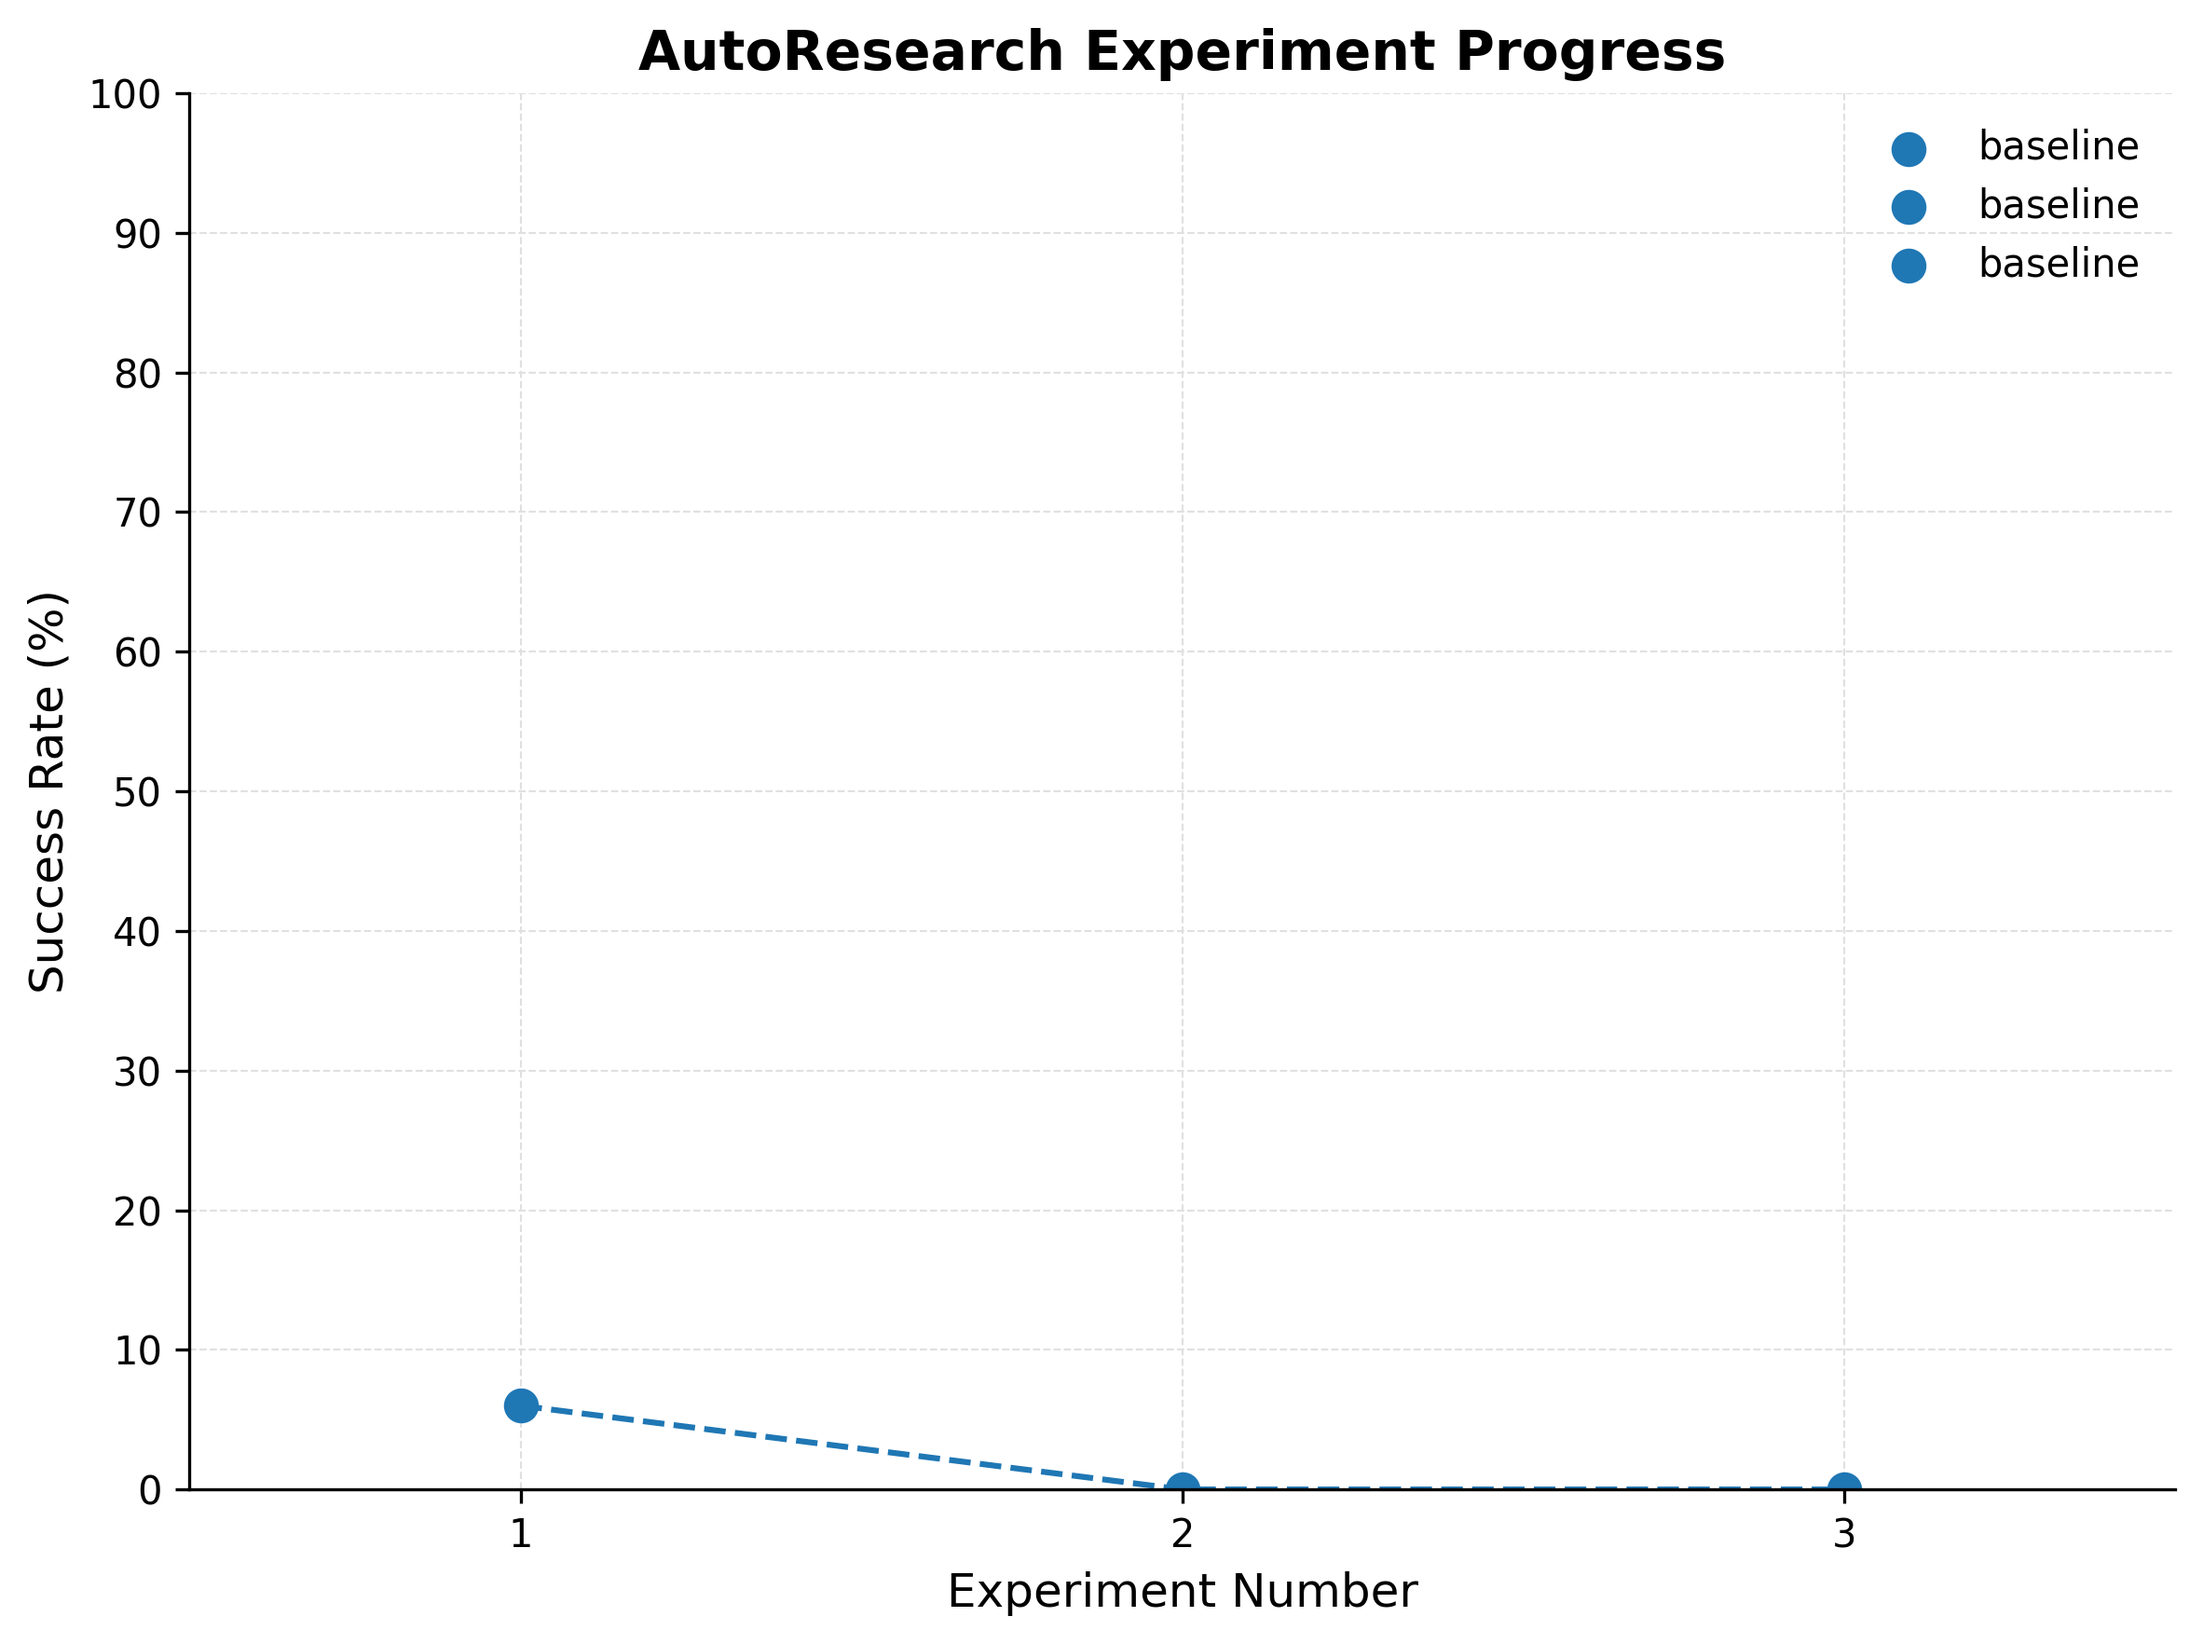
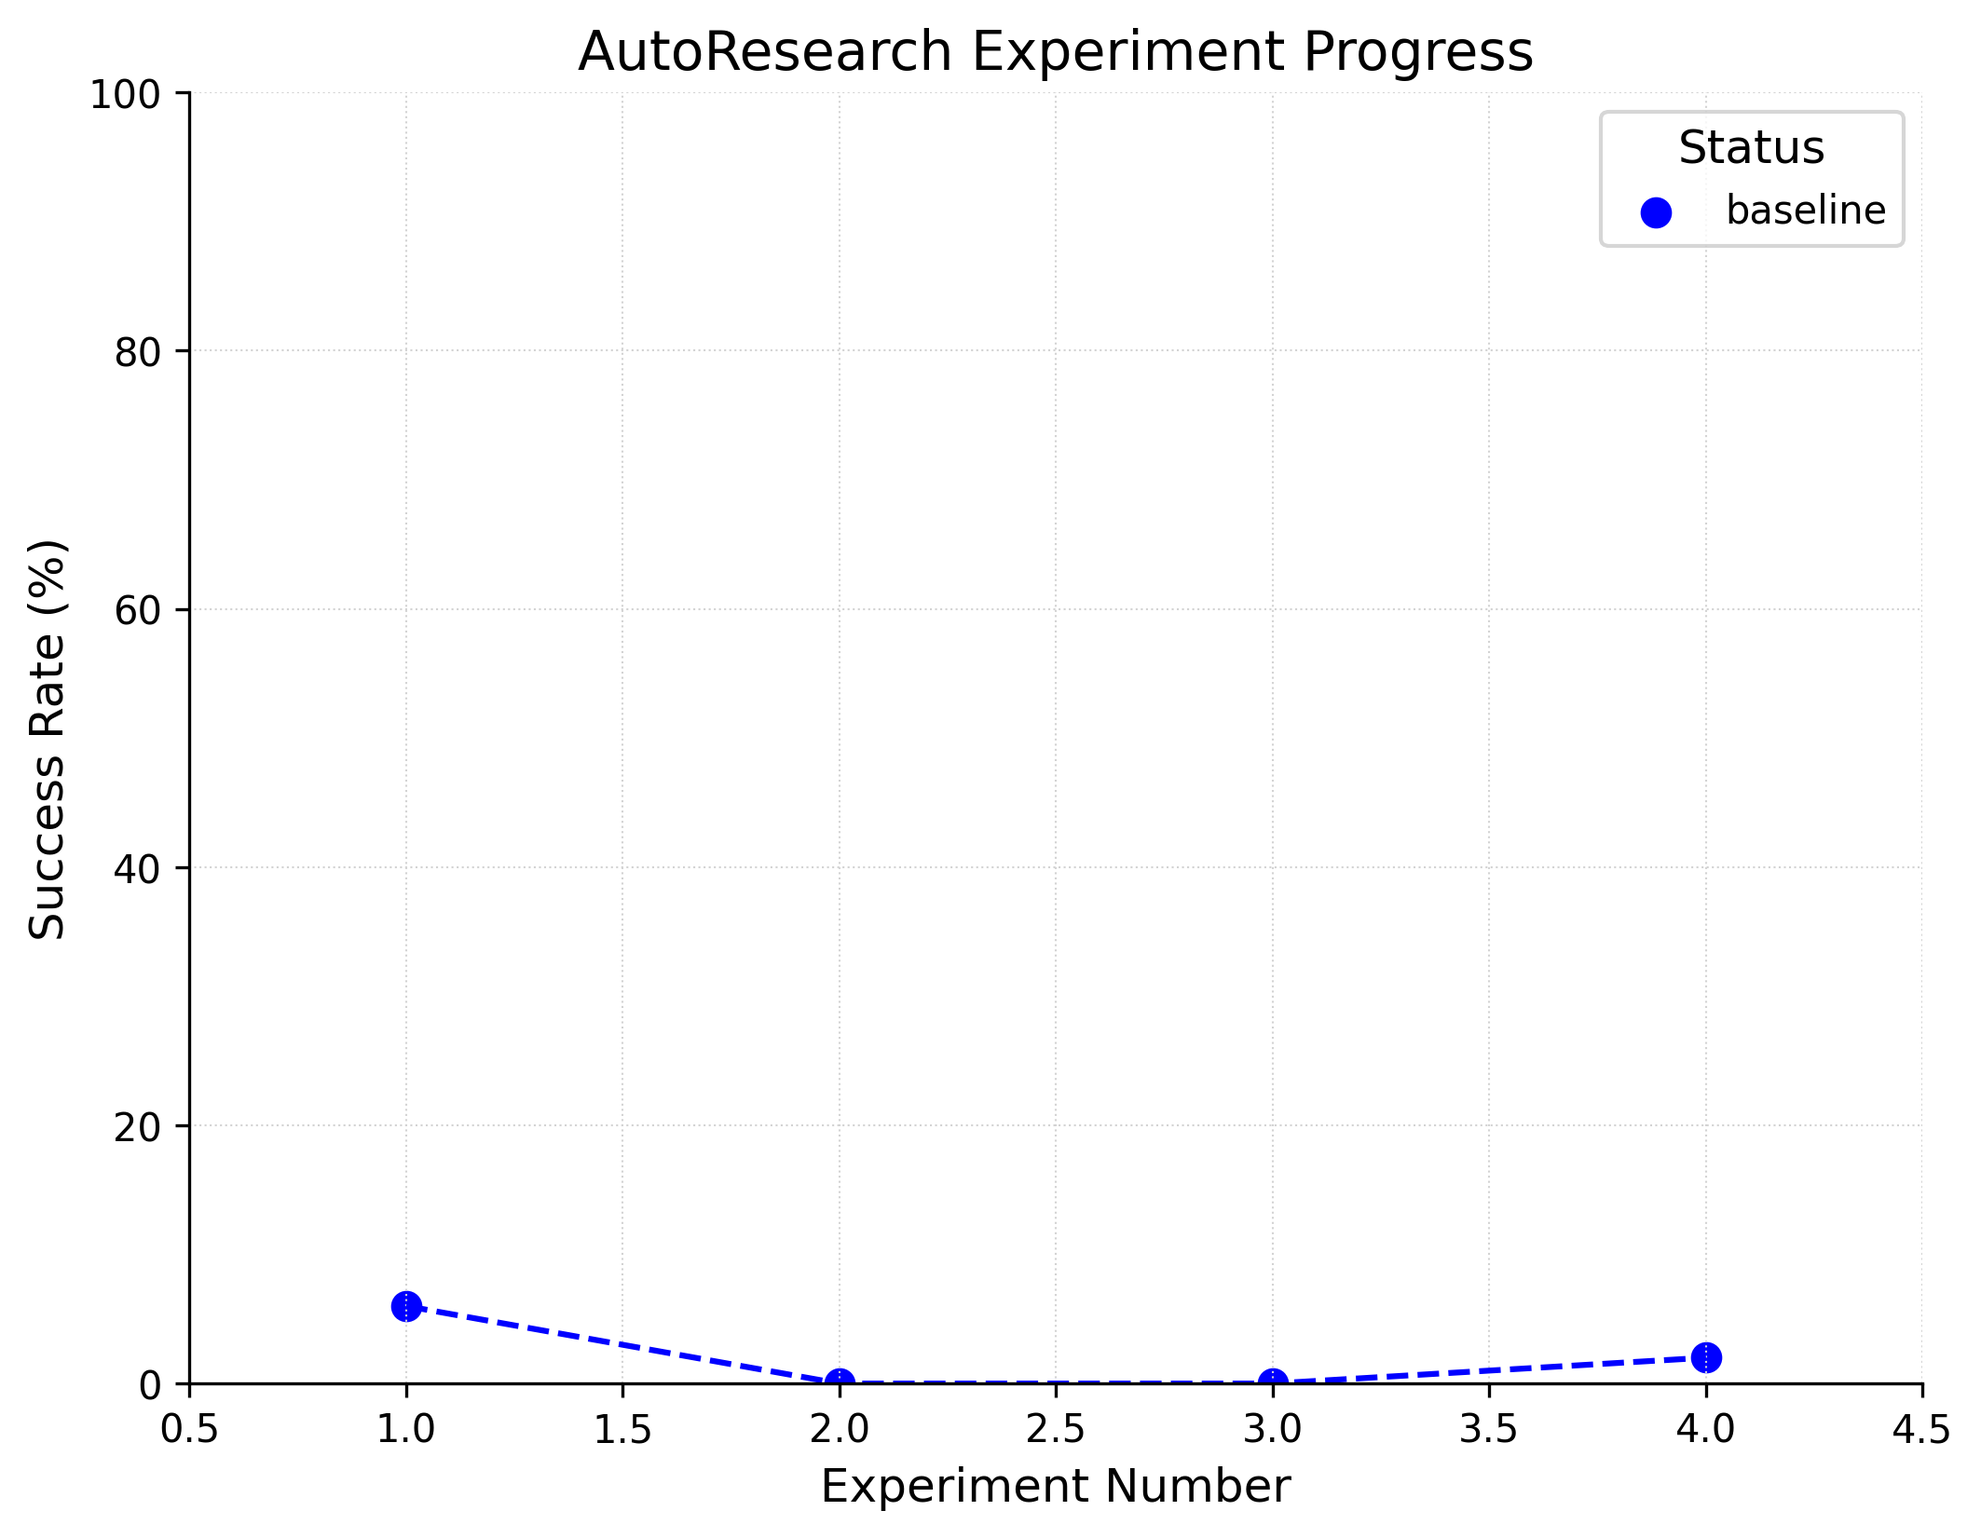
results: 4 experiments — auto-sync

diff --git a/RESULTS.md b/RESULTS.md
@@ -1,18 +1,18 @@
 # AutoResearch-MRL: Live Results
 
-> Last updated: **2026-03-14 07:37 UTC** | auto-generated every 5 min
+> Last updated: **2026-03-14 07:44 UTC** | auto-generated every 5 min
 
 ## Summary
 
 | Metric | Value |
 |--------|-------|
-| **Current Phase** | Phase 1: Baselines (3/9) |
-| Total experiments | 3 |
-| Baselines complete | 3 / 9 |
+| **Current Phase** | Phase 1: Baselines (4/9) |
+| Total experiments | 4 |
+| Baselines complete | 4 / 9 |
 | Improvements kept | 0 |
 | Discarded | 0 |
 | Crashes | 0 |
-| Total GPU time | 105 min (1.8 hrs) |
+| Total GPU time | 170 min (2.8 hrs) |
 
 ## Policy Comparison
 
@@ -25,6 +25,7 @@
 | diffusion | PushT-v0 | 6.0% | 47.3 | 0.0 | 35 | 28405 |
 | act | PushT-v0 | 0.0% | 25.8 | 0.0 | 35 | 16922 |
 | vqbet | PushT-v0 | 0.0% | 1.9 | 0.0 | 35 | 25970 |
+| diffusion | AlohaTransferCube-v0 | 2.0% | 29.4 | 0.0 | 65 | 10682 |
 
 ## Training Efficiency
 
@@ -44,6 +45,7 @@
 | 1 | `c7275a1` | diffusion | PushT-v0 | 6.0% | 47.3 | baseline | default diffusion on PushT-v0 |
 | 2 | `814f618` | act | PushT-v0 | 0.0% | 25.8 | baseline | default act on PushT-v0 |
 | 3 | `5dcae14` | vqbet | PushT-v0 | 0.0% | 1.9 | baseline | default vqbet on PushT-v0 |
+| 4 | `7fb27b8` | diffusion | AlohaTransferCube-v0 | 2.0% | 29.4 | baseline | default diffusion on AlohaTransferCube-v0 |
 
 </details>
 
